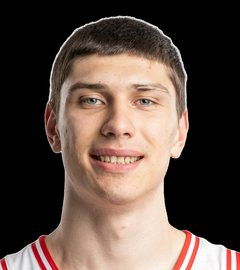
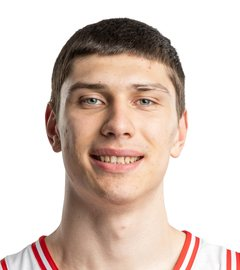
Add official headshots for 12 board prospects missing portraits
NFL: Devan Thompkins, Zereoue Williams and Cade Uluave from their
schools' official roster photos. NBA: Caleb Gaskins, Michael Ruzic and
Lucas Morillo (school rosters), Hugo Yimga-Moukouri (Nanterre 92),
Cameron Houindo and Pavle Backo (ABA League), Adam Atamna (easyCredit
BBL/Ulm), Cheickh Niang (Lega Basket) and Dash Daniels (NBL). Each is
recorded in headshots.json with original URL, source page and credit.

thumbs.py converted transparent cutouts straight to RGB, which turned
their backgrounds black (visible on Kharchenkov, Krivas and Dylan
Stewart). Flatten onto white first. Ignore PNG/WebP originals on the
NBA board as the NFL board already does.

Klark Riethauser still has no portrait: FIBA served only a logo, LNB a
placeholder, and EuroLeague refuses automated retrieval.

diff --git a/nba-board/thumbs.py b/nba-board/thumbs.py
@@ -39,7 +39,11 @@ def main():
     before = after = 0
     for name in sorted(used):
         src = SRC / name
-        im = ImageOps.exif_transpose(Image.open(src)).convert('RGB')
+        im = ImageOps.exif_transpose(Image.open(src)).convert('RGBA')
+        # Cutout PNG/WebP portraits are transparent; flatten onto white, not black.
+        flat = Image.new('RGBA', im.size, 'white')
+        flat.alpha_composite(im)
+        im = flat.convert('RGB')
         thumb = im.crop(crop_box(src.stem, im)).resize((W, H), Image.LANCZOS)
         dest = OUT / (src.stem + '.jpg')
         thumb.save(dest, 'JPEG', quality=84, optimize=True, progressive=True)

diff --git a/nfl-board/thumbs.py b/nfl-board/thumbs.py
@@ -35,7 +35,11 @@ def main():
     before = after = 0
     for name in sorted(used):
         src = SRC / name
-        im = ImageOps.exif_transpose(Image.open(src)).convert('RGB')
+        im = ImageOps.exif_transpose(Image.open(src)).convert('RGBA')
+        # Cutout PNG/WebP portraits are transparent; flatten onto white, not black.
+        flat = Image.new('RGBA', im.size, 'white')
+        flat.alpha_composite(im)
+        im = flat.convert('RGB')
         thumb = im.crop(crop_box(src.stem, im)).resize((W, H), Image.LANCZOS)
         dest = OUT / (src.stem + '.jpg')
         thumb.save(dest, 'JPEG', quality=84, optimize=True, progressive=True)

diff --git a/nba-board/README.md b/nba-board/README.md
@@ -24,6 +24,8 @@ The page polls every five minutes; server source checks run at most hourly, on d
 
 Initial coverage: 99 portraits, 117 checked scouting summaries (112 on the current board: 105 NBA Draft Room, 7 No Ceilings; 13 current players have no usable evaluation from either and remain unreviewed), 124 height/weight pairs. Missing details remain explicit. Official roster/profile image candidates were reviewed in contact sheets; silhouettes, logos, banners, and a suspicious duplicate image were rejected. Local image files preserve downloaded publisher assets; some show prior-team uniforms or signing photos rather than conventional headshots. `headshots.json` records provenance. The page loads 240×270 crops from `assets/headshots/thumbs/` (about 0.7 MB total vs 74 MB of originals) and falls back to the original file if a thumbnail is missing; run `python3 thumbs.py` after adding or replacing a local headshot. Wide or full-body photos get a reviewed crop box in `thumbs.py`. ESPN roster matching requires name and school, with daily caching; ESPN may still list older-season rosters. Local image overrides and supplemental measurements are reviewed snapshots, not automatic new-photo discovery.
 
+Nov 8 headshot pass: 12 more portraits from official sources — school rosters (Gaskins, Ruzic, Morillo), club/league profiles (Nanterre 92, ABA League, easyCredit BBL/Ulm, Lega Basket, NBL) — each recorded in `headshots.json` with original URL, source page and credit. Transparent cutouts are flattened onto white by `thumbs.py`. Klark Riethauser remains without a portrait: FIBA served only a logo, LNB a placeholder, and EuroLeague refuses automated retrieval. Houindo and Backo come from 150px ABA League images, so their thumbnails are soft.
+
 Measurements use linked ranking rows and matched ESPN rosters, with 15 supplemental source-attributed pairs in `measurements.json` from NBA Draft Room and official rosters. Values are listed, not combine verified. Fred Smith Jr.'s height/weight remain unavailable.
 
 Scouting reports in `scouting.json` are short attributed paraphrases of individual NBA Draft Room Draft Notes pages. Players without usable Draft Notes fall back to a free No Ceilings evaluation (Big East Prospect Cheat Sheet, Uncut Gems, or a dedicated player piece); paywalled No Ceilings posts are not used. Specific weaknesses are only stated when the report supports them; a report without a criticism says so. No traits are inferred from rank, measurements, or statistics. Reports do not rewrite automatically when rankings refresh. New entrants without a reviewed report remain unreviewed. Outdated injury/legal notes are not represented as current availability information.

diff --git a/nfl-board/README.md b/nfl-board/README.md
@@ -40,7 +40,7 @@ Height and weight use matched ESPN rosters first. Missing pairs are filled from 
 
 ## Completed headshot coverage
 
-All 125 current prospects have portraits. Sixteen previously missing headshots were matched to official school profiles/rosters (15) and CBS Sports (Dylan Stewart), downloaded without alteration into `assets/headshots/`, and recorded with source URLs and credits in `headshots.json`. The registry survives routine roster refreshes. Sahir West uses his official James Madison portrait; Brendan Sorsby uses his Cincinnati 2025 portrait. Those earlier-team photos are identified in profile credits. A CBS silhouette was rejected during visual QA. All 16 downloaded files decoded successfully and were checked visually; all local image routes return image content.
+All 125 current prospects have portraits. Nineteen previously missing headshots were matched to official school profiles/rosters (18, including Devan Thompkins, Zereoue Williams and Cade Uluave added Nov 8) and CBS Sports (Dylan Stewart), downloaded without alteration into `assets/headshots/`, and recorded with source URLs and credits in `headshots.json`. The registry survives routine roster refreshes. Sahir West uses his official James Madison portrait; Brendan Sorsby uses his Cincinnati 2025 portrait. Those earlier-team photos are identified in profile credits. A CBS silhouette was rejected during visual QA. All 16 downloaded files decoded successfully and were checked visually; all local image routes return image content.
 
 ## Source freshness, disagreement and comparisons
 
